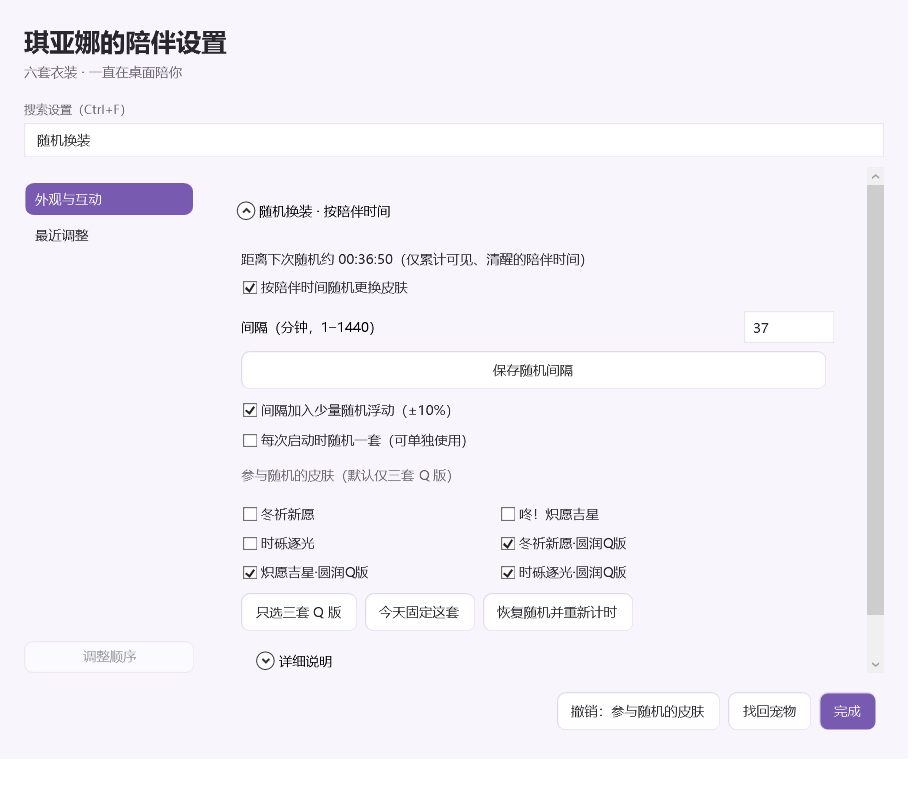
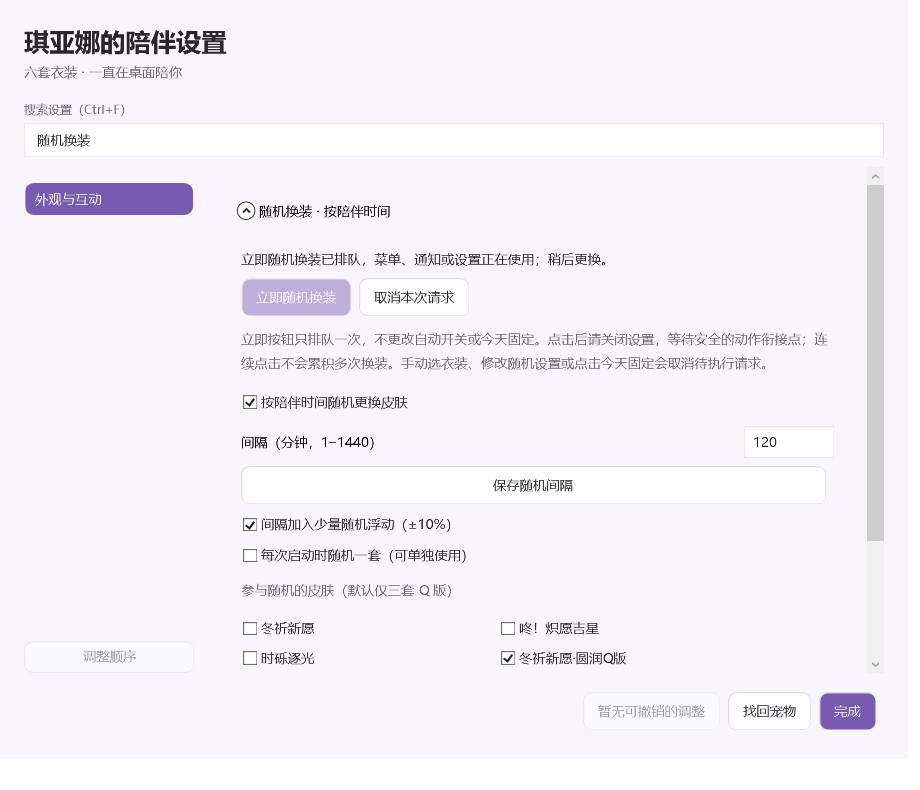
[FEAT]: Add a queued random outfit test button
- Add immediate randomization and cancellation controls to the outfit settings.
- Queue one explicit change without modifying automatic switches or the current-day hold.
- Keep animation-boundary and interaction protections, including settings, GPT tasks, focus and chorus activity.
- Coalesce repeated clicks, cancel stale requests after manual changes and avoid replay across restarts.
- Surface one-shot failures even when automatic rotation is disabled and consume failed requests without endless retries.
- Preserve the existing silent outfit application, music timeline and connection polling.
- Release version 0.9.2 with updated guidance, a settings screenshot and one-shot regression coverage.

Validation: 36 isolated WPF request checks and 156 existing outfit rotation checks; release build and package integrity verification.

diff --git a/tests/v092/shuffle-request-tests.cs b/tests/v092/shuffle-request-tests.cs
@@ -1,0 +1,23 @@
+using System;using System.IO;using System.Linq;using System.Reflection;using System.Collections.Generic;using System.Threading.Tasks;using System.Windows;using System.Windows.Controls;using System.Windows.Threading;using KianaPet;
+class ShuffleRequestTests {
+ static int checks;static readonly List<string> names=new List<string>();
+ static void Check(bool value,string name){if(!value)throw new Exception(name);checks++;names.Add(name);}
+ static object F(object obj,string key){return obj.GetType().GetField(key,BindingFlags.Instance|BindingFlags.NonPublic).GetValue(obj);}
+ static void Set(object obj,string key,object value){obj.GetType().GetField(key,BindingFlags.Instance|BindingFlags.NonPublic).SetValue(obj,value);}
+ static object Call(object obj,string key,params object[] args){return obj.GetType().GetMethod(key,BindingFlags.Instance|BindingFlags.NonPublic).Invoke(obj,args);}
+ [STAThread]static int Main(string[] args){Store.Root=args[0];Store.Save(new Config{LinkChatGPT=false,MusicEnabled=false,Walking=false,Gravity=false,AmbientActions=false,SleepSchedule=false,IdleSleep=false,HideFullscreen=false,LaunchChatGPTOnStart=false,LaunchMusicOnStart=false,NoticeSound=false});var app=new Application{ShutdownMode=ShutdownMode.OnLastWindowClose};var pet=new PetWindow(true);bool passed=false;
+  pet.Loaded+=async delegate{try{
+   await Task.Delay(1100);((DispatcherTimer)F(pet,"animation")).Stop();var window=app.Windows.OfType<SettingsWindow>().Single();window.NavigateCategory("外观与互动","随机换装");await Task.Delay(80);window.UpdateStatus();var nowButton=(Button)F(window,"skinShuffleNow");var cancel=(Button)F(window,"skinShuffleCancel");Check(nowButton.IsVisible&&nowButton.IsEnabled&&!cancel.IsEnabled,"one-shot button visible and ready in random outfit settings");string original=pet.Settings.Skin;var planner=(SkinShufflePlanner)F(pet,"skinShuffle");double remaining=planner.Session.Remaining;string bag=Store.Json.Serialize(planner.Session.Bag);
+   nowButton.RaiseEvent(new RoutedEventArgs(Button.ClickEvent));Check(pet.SkinShuffleRequested&&!nowButton.IsEnabled&&cancel.IsEnabled,"button queues exactly one request and offers cancellation");Check(pet.Settings.Skin==original&&planner.Session.Remaining==remaining&&Store.Json.Serialize(planner.Session.Bag)==bag,"click does not immediately change outfit, timer or shuffled round");Check(pet.SkinShuffleStatus.Contains("排队")&&pet.SkinShuffleStatus.Contains("设置"),"settings protection is explained while queued");pet.RequestSkinShuffle();Check(planner.Session.Remaining==remaining&&pet.SkinShuffleRequested,"repeated request does not reset the timer or create a second request");double now=((System.Diagnostics.Stopwatch)F(pet,"clock")).Elapsed.TotalSeconds;Check(!(bool)Call(pet,"ExecuteSkinShuffle",now,true)&&pet.SkinShuffleRequested,"open settings still blocks execution at an alleged boundary");window.Capture(Path.Combine(Store.Root,"immediate-skin-request.png"));cancel.RaiseEvent(new RoutedEventArgs(Button.ClickEvent));Check(!pet.SkinShuffleRequested&&nowButton.IsEnabled&&!cancel.IsEnabled,"cancel clears only the one-shot request");Check(planner.Session.Remaining==remaining,"cancel leaves normal countdown untouched");
+   foreach(var pair in (Dictionary<string,CheckBox>)F(window,"skinShuffleChoices"))pair.Value.IsChecked=false;window.UpdateStatus();Check(!nowButton.IsEnabled&&!pet.SkinShuffleRequested,"empty candidate pool disables the button");pet.RequestSkinShuffle();Check(!pet.SkinShuffleRequested&&pet.SkinShuffleStatus.Contains("未选择"),"direct request with no candidates explains why it was rejected");SettingsWindow.Descendants<Button>(window).Single(b=>(string)b.Content=="只选三套 Q 版").RaiseEvent(new RoutedEventArgs(Button.ClickEvent));window.Close();pet.IsHitTestVisible=false;Set(pet,"hover",false);Set(pet,"interaction",null);Set(pet,"state","idle");Set(pet,"quietActive",false);Set(pet,"menuLayerYielding",false);Set(pet,"displayPending",false);Set(pet,"sleeping",false);
+   pet.RequestSkinShuffle();foreach(var field in new[]{"pressed","dragging","sleeping","quietActive","sessionLocked","manualHidden","menuLayerYielding"}){Set(pet,field,true);Check(!(bool)Call(pet,"ExecuteSkinShuffle",now,true)&&pet.SkinShuffleRequested,"one-shot respects protection: "+field);Set(pet,field,false);}pet.StartFocus(false);Check(!(bool)Call(pet,"ExecuteSkinShuffle",now,true),"focus blocks one-shot execution");pet.ResetFocus();pet.Settings.LinkChatGPT=true;pet.Link.Current.Connected=true;pet.Link.Current.State="running";pet.Link.Current.At=DateTime.UtcNow;Check(!(bool)Call(pet,"ExecuteSkinShuffle",now,true)&&pet.SkinShuffleStatus.Contains("GPT"),"live GPT task blocks and explains one-shot waiting");pet.Settings.LinkChatGPT=false;pet.Link.Current.Connected=false;pet.Link.Current.State="idle";
+   pet.Settings.SkinShuffleEnabled=false;pet.Settings.SkinShuffleOnStart=false;pet.UpdateSkinShuffleSettings();pet.HoldSkinToday();pet.RequestSkinShuffle();Check(pet.SkinShuffleRequested&&planner.Held(DateTime.Now)&&!pet.Settings.SkinShuffleEnabled,"explicit request works with automatic modes off and retains today hold");Check(!(bool)Call(pet,"ExecuteSkinShuffle",now,false)&&pet.SkinShuffleRequested,"safe state alone cannot bypass animation boundary");
+   pet.Settings.MusicEnabled=true;pet.Settings.MusicChorusEnabled=false;pet.Music.Current=new MusicState{Connected=true,Playing=true,Id="123",HasPosition=false,At=DateTime.UtcNow};Set(pet,"state","music-quiet");Set(pet,"stateAt",now-20);Set(pet,"drawnMusicState","music-quiet");Set(pet,"musicRising",false);Call(pet,"ChooseMusicReaction",now-10,true);Call(pet,"ChooseMusicReaction",now,true);Call(pet,"DrawAnimation",20000d);var session=F(pet,"musicReactionPlanner");var started=F(session,"started");var entered=F(session,"enteredAt");var poll=((DispatcherTimer)F(pet,"poll")).Interval;var musicPoll=((DispatcherTimer)F(pet,"musicTimer")).Interval;double at=(double)F(pet,"stateAt"),width=pet.Width,height=pet.Height;
+   pet.Music.Current.HasPosition=true;pet.Music.Current.Position=20;pet.Settings.MusicSongPreferences=new[]{new SongMusicPreference{Id="123",Start=0,End=60}};Check(!(bool)Call(pet,"ExecuteSkinShuffle",now,true)&&pet.SkinShuffleRequested,"known chorus still blocks explicit randomization");pet.Music.Current.HasPosition=false;pet.Settings.MusicSongPreferences=new SongMusicPreference[0];
+   Check((bool)Call(pet,"ExecuteSkinShuffle",now,true)&&pet.Settings.Skin!=original&&!pet.SkinShuffleRequested,"one-shot changes to a selected different outfit at the safe boundary");Check(pet.CurrentAction=="music-quiet"&&(double)F(pet,"stateAt")==at&&F(pet,"interaction")==null&&pet.Width==width&&pet.Height==height,"one-shot preserves pose timeline, dimensions and silent behavior");Check(ReferenceEquals(session,F(pet,"musicReactionPlanner"))&&Equals(started,F(session,"started"))&&Equals(entered,F(session,"enteredAt"))&&poll==((DispatcherTimer)F(pet,"poll")).Interval&&musicPoll==((DispatcherTimer)F(pet,"musicTimer")).Interval,"one-shot preserves music session and connection polling");Check(planner.Held(DateTime.Now)&&!pet.Settings.SkinShuffleEnabled&&!pet.Settings.SkinShuffleOnStart,"one-shot does not alter automatic switches or today hold");string changed=pet.Settings.Skin;Check(!(bool)Call(pet,"ExecuteSkinShuffle",now+1,true)&&pet.Settings.Skin==changed,"completed one-shot cannot execute twice");
+   pet.RequestSkinShuffle();pet.SelectSkin(original);Check(!pet.SkinShuffleRequested,"manual outfit selection cancels older queued request");pet.RequestSkinShuffle();pet.UpdateSkinShuffleSettings();Check(!pet.SkinShuffleRequested,"editing random configuration cancels queued request");pet.RequestSkinShuffle();pet.HoldSkinToday();Check(!pet.SkinShuffleRequested,"holding today's outfit cancels queued request");pet.RequestSkinShuffle();pet.ResumeSkinShuffle();Check(!pet.SkinShuffleRequested,"resetting rotation cancels queued request");
+   pet.Settings.SkinShufflePool=new[]{pet.Settings.Skin};pet.UpdateSkinShuffleSettings();pet.RequestSkinShuffle();Check(!pet.SkinShuffleRequested&&pet.SkinShuffleStatus.Contains("唯一"),"single current candidate never queues a no-op");
+   string bad="kiana-winter-wish",asset=Path.Combine(AppDomain.CurrentDomain.BaseDirectory,"assets",bad+".png"),backup=asset+".test-backup";Check(Path.GetFullPath(asset).Contains(Path.Combine(".local","tests")),"failure fixture only changes isolated assets");pet.Settings.SkinShufflePool=new[]{bad};pet.UpdateSkinShuffleSettings();Set(pet,"interaction",null);Set(pet,"state","idle");pet.Settings.MusicEnabled=false;pet.RequestSkinShuffle();string old=pet.Settings.Skin;File.Move(asset,backup);try{Check(!(bool)Call(pet,"ExecuteSkinShuffle",now,true)&&!pet.SkinShuffleRequested&&pet.Settings.Skin==old,"failed one-shot restores outfit and consumes request");Check(!(bool)Call(pet,"ExecuteSkinShuffle",now+1,true)&&pet.SkinShuffleStatus.Contains("未完成"),"failed one-shot does not retry forever");}finally{File.Move(backup,asset);}pet.Settings.SkinShufflePool=SkinShuffleRules.Defaults.ToArray();pet.UpdateSkinShuffleSettings();pet.RequestSkinShuffle();string serialized=Store.Json.Serialize(planner.Session);var restored=new SkinShufflePlanner(new Random(2));restored.Load(Store.Json.Deserialize<SkinShuffleSession>(serialized),pet.Settings);Check(!restored.Due(pet.Settings,DateTime.Now)&&!serialized.Contains("Requested"),"one-shot is not persisted or replayed on restart");pet.CancelSkinShuffleRequest();passed=true;
+  }catch(Exception e){Store.Atomic("error.json",new{error=e.ToString(),checks});}finally{Store.Atomic("result.json",new{passed,checks,names});foreach(var w in app.Windows.Cast<Window>().Where(w=>w!=pet).ToArray())w.Close();pet.Close();}};app.Run(pet);return passed?0:1;
+ }
+}

diff --git a/source/PetSkinShuffle.cs b/source/PetSkinShuffle.cs
@@ -9,6 +9,19 @@ namespace KianaPet {
   bool skinShuffleReady;
   double lastSkinCheckpoint;
   string skinShuffleError="";
+  bool skinShuffleRequested;
+  string skinShuffleRequestNote="";
+  public bool SkinShuffleRequested{get{return skinShuffleRequested;}}
+  public bool CanRequestSkinShuffle{get{return skinShuffleReady&&!skinShuffleRequested&&Settings.SkinShufflePool.Any(id=>id!=Settings.Skin);}}
+  public void RequestSkinShuffle(){
+   if(!skinShuffleReady||skinShuffleRequested)return;
+   skinShuffleRequestNote="";
+   if(!Settings.SkinShufflePool.Any(id=>id!=Settings.Skin)){skinShuffleRequestNote=Settings.SkinShufflePool.Length==0?"未选择参与的皮肤，本次请求未排队。":"当前就是唯一候选，本次请求未排队。";return;}
+   // A deliberate one-shot request bypasses the clock and today's automatic
+   // hold, but never bypasses interaction or animation-boundary protections.
+   skinShuffleRequested=true;skinShuffleError="";skinBoundary.Reset();
+  }
+  public void CancelSkinShuffleRequest(){skinShuffleRequested=false;skinShuffleRequestNote="";skinBoundary.Reset();}
   void PrepareSkinShuffle(){
    SkinShuffleSession saved=null;
    try{saved=Store.Json.Deserialize<SkinShuffleSession>(File.ReadAllText(Path.Combine(Store.Root,"skin-shuffle-session.json")));}catch{}
@@ -49,9 +62,13 @@ namespace KianaPet {
    double elapsed=Math.Max(0,(now-stateAt)*1000);
    double timeline=state=="music-quiet"?AnimationTiming.MusicElapsed(Settings,state,elapsed,false)-MusicReactions.SitTransitionMs:AnimationTiming.Elapsed(Settings,state,elapsed);
    bool boundary=skinBoundary.Observe(state,timeline,state=="music-quiet"?MusicSeatedFrames.CycleMs:6600,blocked.Length==0,Settings.ReduceMotion,now);
-   if(preview||!skinShuffle.Due(Settings,DateTime.Now)||!boundary)return;
-   string id=skinShuffle.Next(Settings);if(id==null)return;
-   ApplyAutomaticSkin(id,now);
+   if(!preview)ExecuteSkinShuffle(now,boundary);
+  }
+  bool ExecuteSkinShuffle(double now,bool boundary){
+   if(!skinShuffleReady||!boundary||(!skinShuffleRequested&&!skinShuffle.Due(Settings,DateTime.Now))||SkinShuffleBlockReason().Length>0)return false;
+   bool requested=skinShuffleRequested;string id=skinShuffle.Next(Settings);skinShuffleRequested=false;
+   if(id==null){if(requested)skinShuffleRequestNote="没有可更换的候选，本次请求已结束。";return false;}
+   return ApplyAutomaticSkin(id,now);
   }
   bool ApplyAutomaticSkin(string id,double now){
    if(!Pets.Any(p=>p.Id==id)||id==Settings.Skin)return false;
@@ -66,17 +83,19 @@ namespace KianaPet {
     Save();SaveSkinShuffle();return true;
    }catch(Exception e){Settings.Skin=old;LoadSkinCore(false);DrawAnimation((now-stateAt)*1000);skinShuffle.Reset(Settings);skinShuffleError="换装未完成："+e.Message;Store.Log(skinShuffleError);SaveSkinShuffle();return false;}
   }
-  void ManualSkinShuffleReset(){if(!skinShuffleReady)return;skinShuffle.Configure(Settings);skinShuffle.Manual(Settings);skinBoundary.Reset();skinShuffleError="";SaveSkinShuffle();}
-  public void UpdateSkinShuffleSettings(){Settings.Validate();skinShuffle.Configure(Settings);skinBoundary.Reset();skinShuffleError="";Save();SaveSkinShuffle();}
-  public void HoldSkinToday(){skinShuffle.HoldToday(DateTime.Now);skinBoundary.Reset();SaveSkinShuffle();}
-  public void ResumeSkinShuffle(){skinShuffle.Release(Settings);skinBoundary.Reset();skinShuffleError="";SaveSkinShuffle();}
+  void ManualSkinShuffleReset(){if(!skinShuffleReady)return;CancelSkinShuffleRequest();skinShuffle.Configure(Settings);skinShuffle.Manual(Settings);skinShuffleError="";SaveSkinShuffle();}
+  public void UpdateSkinShuffleSettings(){CancelSkinShuffleRequest();Settings.Validate();skinShuffle.Configure(Settings);skinShuffleError="";Save();SaveSkinShuffle();}
+  public void HoldSkinToday(){CancelSkinShuffleRequest();skinShuffleError="";skinShuffle.HoldToday(DateTime.Now);SaveSkinShuffle();}
+  public void ResumeSkinShuffle(){CancelSkinShuffleRequest();skinShuffle.Release(Settings);skinShuffleError="";SaveSkinShuffle();}
   public string SkinShuffleStatus{get{
    if(!skinShuffleReady)return "随机换装准备中";
+   if(skinShuffleRequested){string reason=SkinShuffleBlockReason();return "立即随机换装已排队，"+(reason.Length>0?reason+"；稍后更换。":"等待安全的动作循环衔接点。");}
+   if(skinShuffleRequestNote.Length>0)return skinShuffleRequestNote;
+   if(skinShuffleError.Length>0)return skinShuffleError;
    if(skinShuffle.Held(DateTime.Now))return "今天固定当前衣装；明天恢复完整间隔计时。";
    if(!Settings.SkinShuffleEnabled&&!Settings.SkinShuffleOnStart)return "随机换装已关闭。";
    if(Settings.SkinShufflePool.Length==0)return "未选择参与的皮肤，暂不更换。";
    if(!Settings.SkinShufflePool.Any(id=>id!=Settings.Skin))return "当前就是唯一候选，不会重复换装。";
-   if(skinShuffleError.Length>0)return skinShuffleError;
    if(!Settings.SkinShuffleEnabled)return "仅在启动时随机；下次启动生效。";
    if(skinShuffle.Due(Settings,DateTime.Now)){string reason=SkinShuffleBlockReason();return "已到更换时间，"+(reason.Length>0?reason+"；稍后再换。":"等待动作循环衔接点。");}
    return "距离下次随机约 "+SkinShuffleRules.WaitText(skinShuffle.Session.Remaining)+"（仅累计可见、清醒的陪伴时间）";

diff --git a/source/SettingsSkinShuffle.cs b/source/SettingsSkinShuffle.cs
@@ -3,6 +3,7 @@ namespace KianaPet {
  public sealed partial class SettingsWindow {
   TextBlock skinShuffleStatus;TextBox skinShuffleMinutes;Expander skinShuffleSection;
   CheckBox skinShuffleTimed,skinShuffleStartup,skinShuffleJitter;
+  Button skinShuffleNow,skinShuffleCancel;
   readonly Dictionary<string,CheckBox> skinShuffleChoices=new Dictionary<string,CheckBox>();
   bool syncingSkinShuffle;int displayedShuffleMinutes;
   void BuildSkinShuffleSettings(StackPanel appearance){
@@ -10,6 +11,8 @@ namespace KianaPet {
    skinShuffleSection=(Expander)appearance.Children[appearance.Children.Count-1];appearance.Children.Remove(skinShuffleSection);
    int index=appearance.Children.IndexOf(appearance.Children.OfType<TextBlock>().Single(t=>t.Text=="今天穿哪一套？"));appearance.Children.Insert(index,skinShuffleSection);
    skinShuffleStatus=CompanionControls.Text("",13);skinShuffleStatus.Foreground=ink;body.Children.Add(skinShuffleStatus);
+   var requestActions=new WrapPanel();skinShuffleNow=Button("立即随机换装",delegate{pet.RequestSkinShuffle();UpdateSkinShuffleStatus();},true);skinShuffleCancel=Button("取消本次请求",delegate{pet.CancelSkinShuffleRequest();UpdateSkinShuffleStatus();},false);requestActions.Children.Add(skinShuffleNow);requestActions.Children.Add(skinShuffleCancel);body.Children.Add(requestActions);
+   Note(body,"立即按钮只排队一次，不更改自动开关或今天固定。点击后请关闭设置，等待安全的动作衔接点；连续点击不会累积多次换装。手动选衣装、修改随机设置或点击今天固定会取消待执行请求。");
    skinShuffleTimed=Check(body,"按陪伴时间随机更换皮肤",pet.Settings.SkinShuffleEnabled,v=>{if(syncingSkinShuffle)return;pet.Settings.SkinShuffleEnabled=v;pet.UpdateSkinShuffleSettings();UpdateSkinShuffleStatus();});
    skinShuffleMinutes=NumberRow(body,"间隔（分钟，1–1440）",pet.Settings.SkinShuffleMinutes);displayedShuffleMinutes=pet.Settings.SkinShuffleMinutes;
    body.Children.Add(Button("保存随机间隔",delegate{int value;if(!int.TryParse(skinShuffleMinutes.Text,out value)||value<1||value>1440){MessageBox.Show(this,"请输入 1–1440 分钟。","间隔尚未保存");return;}pet.Settings.SkinShuffleMinutes=value;displayedShuffleMinutes=value;pet.UpdateSkinShuffleSettings();UpdateSkinShuffleStatus();},false));
@@ -23,7 +26,7 @@ namespace KianaPet {
    Note(body,"默认每 120 分钟左右更换，浮动开启时约 108–132 分钟。只累计桌宠可见、清醒的陪伴时间，隐藏或锁屏不补计；到时等待待机或平稳坐姿的循环衔接点。拖动、互动、应援、已知副歌、GPT 任务、专注、睡眠及设置操作期间暂缓。候选打乱后按轮使用，避免紧接着重复当前皮肤；手动换装或调整随机设置后重新计时。\n自动换装不挥手、不弹气泡、不移动位置，也不重置音乐会话或轮询；包含普通版候选时听歌期间等待日常待机，避免丢失音乐动作。启动随机在首次显示前完成。今天固定会保留到当天结束，跨日后恢复完整间隔；计时、剩余候选与当天固定只存本机，开关、间隔和候选可随通用偏好迁移。");
   }
   void UpdateSkinShuffleStatus(){
-   if(skinShuffleStatus==null)return;skinShuffleStatus.Text=pet.SkinShuffleStatus;skinShuffleSection.Header="随机换装 · "+(pet.Settings.SkinShuffleEnabled?"按陪伴时间":pet.Settings.SkinShuffleOnStart?"仅启动时":"已关闭");
+   if(skinShuffleStatus==null)return;skinShuffleStatus.Text=pet.SkinShuffleStatus;skinShuffleNow.IsEnabled=pet.CanRequestSkinShuffle;skinShuffleCancel.IsEnabled=pet.SkinShuffleRequested;skinShuffleSection.Header="随机换装 · "+(pet.Settings.SkinShuffleEnabled?"按陪伴时间":pet.Settings.SkinShuffleOnStart?"仅启动时":"已关闭");
    syncingSkinShuffle=true;try{skinShuffleTimed.IsChecked=pet.Settings.SkinShuffleEnabled;skinShuffleStartup.IsChecked=pet.Settings.SkinShuffleOnStart;skinShuffleJitter.IsChecked=pet.Settings.SkinShuffleJitter;foreach(var choice in skinShuffleChoices)choice.Value.IsChecked=pet.Settings.SkinShufflePool.Contains(choice.Key);if(displayedShuffleMinutes!=pet.Settings.SkinShuffleMinutes&&!skinShuffleMinutes.IsKeyboardFocusWithin){skinShuffleMinutes.Text=pet.Settings.SkinShuffleMinutes.ToString();displayedShuffleMinutes=pet.Settings.SkinShuffleMinutes;}}finally{syncingSkinShuffle=false;}
   }
  }

diff --git a/source/Maintenance.cs b/source/Maintenance.cs
@@ -4,7 +4,7 @@ namespace KianaPet {
  public sealed class PackageManifest {public int schema;public string product,version;public PackageEntry[] files;}
  public sealed class PreparedUpdate {public string Folder,Version,Notes;public PackageManifest Manifest;}
  public static class Maintenance {
-  public const string Version="0.9.1";
+  public const string Version="0.9.2";
   public static bool RuntimeFile(string path){return Regex.IsMatch(path,@"^(assets/|licenses/|docs/demo/|docs/(?:music-animations|toolbar-styles|optional-connections)\.md$|docs/music-generation-\d+\.\d+\.\d+\.json$|KianaHookReceiver\.exe(?:\.config)?$|KianaDesktopPet\.exe(?:\.config)?$|tools/(?:Send-TaskNotice|Invoke-TaskWithNotice)\.ps1$|docs/companion-features\.md$|README\.md$|CHANGELOG\.md$|ASSET_NOTICE\.md$|LICENSE$|update-worker\.ps1$)");}
   public static string SafePath(string root,string relative){if(string.IsNullOrWhiteSpace(relative)||relative.Contains(":")||relative.Contains("\\")||relative.StartsWith("/")||relative.Split('/').Any(p=>p==".."||p=="."||p.Length==0)||relative.Split('/').Any(p=>p.EndsWith(".")||p.EndsWith(" ")))throw new Exception("安装包包含无效路径。");string prefix=Path.GetFullPath(root).TrimEnd(Path.DirectorySeparatorChar)+Path.DirectorySeparatorChar;string target=Path.GetFullPath(Path.Combine(root,relative));if(!target.StartsWith(prefix,StringComparison.OrdinalIgnoreCase))throw new Exception("文件超出安装范围。");return target;}
   public static string Hash(Stream stream){using(var sha=SHA256.Create())return BitConverter.ToString(sha.ComputeHash(stream)).Replace("-","").ToLowerInvariant();}

diff --git a/README.md b/README.md
@@ -6,6 +6,8 @@
 
 **设置 → 外观与互动 → 随机换装** 可调整间隔与参与皮肤。默认每约两小时在三套 Q 版之间随机，等安全的动作循环衔接点再换；手动选择后重新计时，也可今天固定一套。启动随机可单独开启。自动更换保留位置、音乐状态与原有联动，说明见 [随机换装规则](docs/companion-features.md#随机换装)。
 
+0.9.2 增加 **立即随机换装**：跳过倒计时排队一次，点击后关闭设置，仍等待安全的动作衔接点；可查看等待原因或取消请求，不修改自动模式和当天固定设置。
+
 ![随机换装设置，可自定义间隔与候选](docs/demo/random-skin-settings.png)
 
 ### 音乐状态与专注陪伴（0.9.0）
@@ -44,7 +46,7 @@
 git clone https://github.com/FeiyangHong/Kiana-Desktop-Pet.git
 cd Kiana-Desktop-Pet
 .\build-release.ps1
-.\dist\Kiana-Desktop-Pet-0.9.1-Windows\install.ps1 -InstallRoot 'E:\Kiana-Desktop-Pet\runtime\KianaDesktopPet'
+.\dist\Kiana-Desktop-Pet-0.9.2-Windows\install.ps1 -InstallRoot 'E:\Kiana-Desktop-Pet\runtime\KianaDesktopPet'
 ```
 
 `-InstallRoot` 可改为本机希望保存程序、设置与日志的目录；ChatGPT 平滑联动组件会装在其同级的 `KianaSmoothPet`。首次启动桌宠请使用安装器生成的“琪亚娜桌宠”快捷方式。另一台电脑拉取更新后重新构建、安装即可；本机设置会保留并在更新前备份。

diff --git a/docs/companion-features.md b/docs/companion-features.md
@@ -1,10 +1,14 @@
-# 音乐状态、共享偏好与日常陪伴（0.9.1）
+# 音乐状态、共享偏好与日常陪伴（0.9.2）
 
 保留原有页面、Hooks 与系统媒体联动。没有新增或启用内存读取，也不更改 GPT、网易云的启动方式。自动场景、外部任务接收及电池策略默认关闭，性能默认保留原有策略，专注计时需手动开始。
 
 ## 随机换装
 
 入口：**设置 → 外观与互动 → 随机换装**，也可搜索“随机换装”。
+
+顶部的 **立即随机换装** 用于单次测试：跳过剩余倒计时，点击后请关闭设置，再等待安全的动作循环衔接点。GPT 任务、拖动、互动、专注、副歌、菜单及设置等保护不变，页面会显示排队和等待原因。自动模式关闭或“今天固定”期间也能主动请求一次，但不会修改自动开关或固定日期；成功后会按原规则重新计时。
+
+重复点击只保留一个请求，可用 **取消本次请求** 撤回。取消只影响本次手动请求，原定时规则照常工作。手动选衣装、修改随机设置、点击今天固定或恢复计时，也会取消旧请求。没有其他候选时按钮不可用；素材失败会保留原皮肤、显示原因并结束请求，不反复尝试。单次请求仅本次运行有效，不跨重启恢复，也不参与偏好同步。
 
 | 选项 | 默认与行为 |
 | --- | --- |

diff --git a/CHANGELOG.md b/CHANGELOG.md
@@ -1,3 +1,11 @@
+# 0.9.2 · 单次立即随机换装请求（2026-11-15）
+
+- 随机换装设置顶部增加“立即随机换装”及“取消本次请求”。立即按钮跳过倒计时，只排队一次，仍等待待机／平稳坐姿的安全循环衔接点，设置、GPT 任务、互动、专注和副歌等原有保护继续生效。
+- 单次请求可在自动模式关闭或当天固定期间使用，不改动自动开关及固定日期；成功后按现有规则重置间隔。连续点击合并，手动选衣装、修改随机设置、当天固定或恢复计时会取消旧请求。
+- 界面显示排队与等待原因，并提示关闭设置后等待；空候选或仅当前候选时不可重复更换。失败会恢复原衣装、显示原因并结束单次请求，不自动反复重试。
+- 单次请求仅本次运行有效，不写入配置、共享快照或重启检查点；音乐会话、姿态时间轴和连接轮询保持原有规则。
+- 新增单次请求 WPF 回归，并通过既有随机换装回归；未启动或重启 GPT、网易云，也未操作播放。
+
 # 0.9.1 · 安静随机换装（2026-11-15）
 
 - 新增随机换装设置，默认开启按陪伴时间更换，间隔 120 分钟、可选 ±10% 浮动，默认只勾选三套 Q 版。间隔支持 1–1440 分钟，六套皮肤可自行勾选，启动随机可独立开启。

diff --git a/tests/v092/README.md b/tests/v092/README.md
@@ -1,0 +1,7 @@
+# One-shot outfit request regression
+
+Build with `.\source\build.ps1`, then run `.\tests\v092\Run-Tests.ps1` in PowerShell 7 on Windows x64 with .NET Framework 4.8.
+
+The WPF suite stages copied assets and independent state under `.local/tests`. It verifies button availability, single-request coalescing, cancellation, untouched countdown while queuing, independent use with automatic modes disabled or today's hold active, protection during settings/tasks/focus/chorus/interaction, and the separate animation-boundary requirement. Successful changes retain the music timeline and polling intervals. Subsequent manual changes cancel stale requests. Missing assets roll back and consume the one-shot request, which is never persisted for replay.
+
+The fixture never starts or controls GPT or NetEase. Its missing-asset test temporarily renames a copied atlas and restores it in `finally`. The original randomized planner, persistence and animation boundary coverage remains in `tests/v091`.
